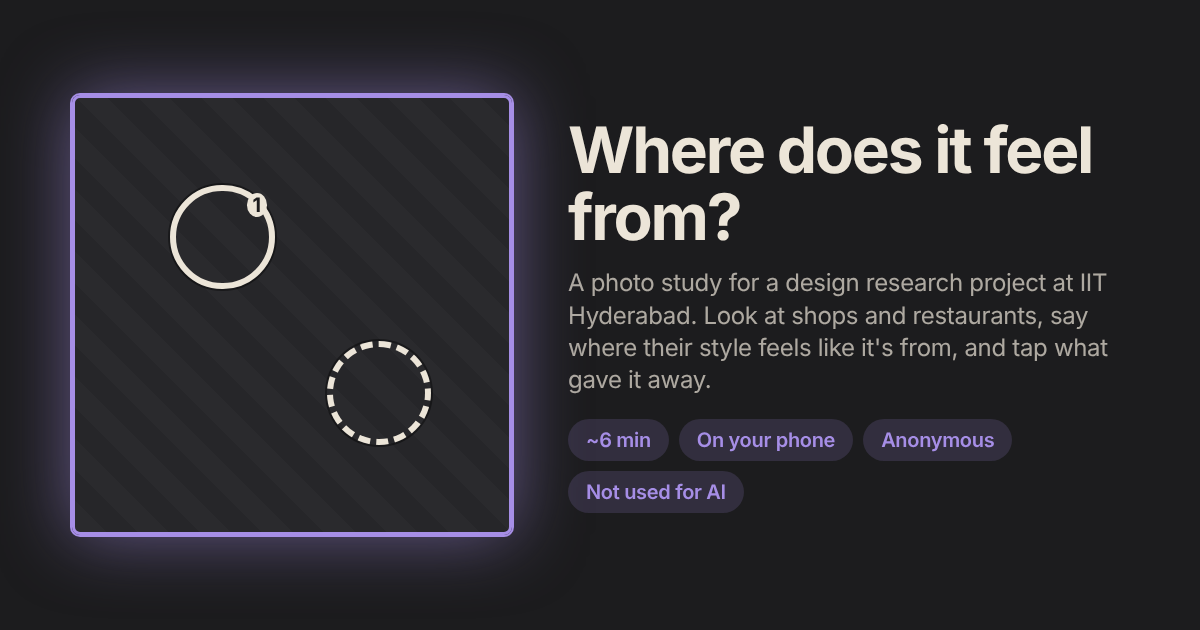
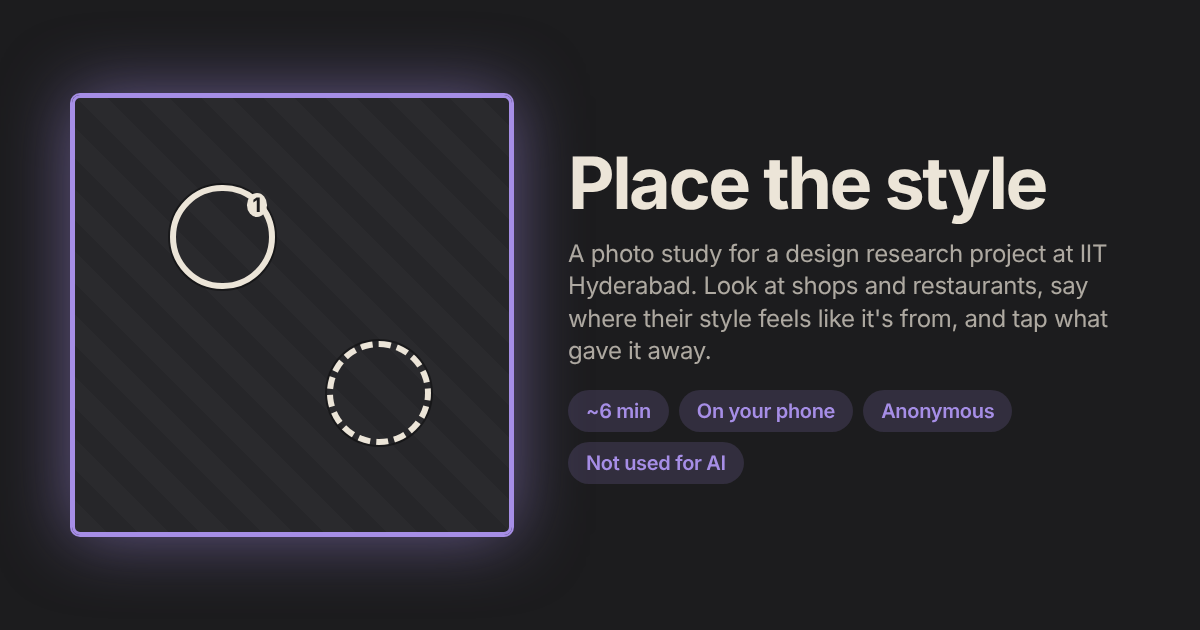
Add files via upload

Changed region(s): [[0.4625, 0.181, 0.925, 0.8143]]

diff --git a/app.js b/app.js
@@ -304,7 +304,7 @@ const contactLine=()=>SET.contact?`<p class="contact">Questions about the study?
 async function rWelcome(){S=null;closeModal();const done=await get('meta','done');
   if(done&&SET.mode==='online'){OPTIN={sent:!!done.optin};return rThanks()}
   const n=nShown(),mins=Math.max(3,Math.round(n*.3));
-  app.innerHTML=`<div class="center"><div class="box"><h1 id="ttl">Where does it feel from?</h1><p>A short study about how shops and restaurants look. You'll see about ${n} photos and say which part of the world each place's style feels like it's from (not where it actually is). It takes about ${mins} minutes.</p>
+  app.innerHTML=`<div class="center"><div class="box"><h1 id="ttl">Place the style</h1><p>A short study about how shops and restaurants look. You'll see about ${n} photos and say which part of the world each place's style feels like it's from (not where it actually is). It takes about ${mins} minutes.</p>
   <p class="small">This is part of an academic design research project${SET.inst?' '+esc(SET.inst):''}. Your answers are used only for this research. They won't be sold, shared with companies, or used to train AI.</p>
   <p class="small">It's anonymous: we don't ask for your name, and nothing you answer identifies you. You can stop at any time by closing the page; answers you've already given are kept.</p>
   <p class="small">You need to be 18 or older. That's a standard research-ethics rule for studies with adults, not a content warning: the photos are just shops and restaurants.</p>

diff --git a/index.html b/index.html
@@ -4,9 +4,9 @@
 <meta charset="utf-8">
 <meta name="viewport" content="width=device-width,initial-scale=1,viewport-fit=cover,user-scalable=no">
 <meta name="theme-color" content="#1c1c1e">
-<title>Where does it feel from?</title>
+<title>Place the style</title>
 <meta name="description" content="A short study on how shops and restaurants look. About 6 minutes, anonymous, part of an academic design research project.">
-<meta property="og:title" content="Where does it feel from?">
+<meta property="og:title" content="Place the style">
 <meta property="og:description" content="A short study on how shops and restaurants look. About 6 minutes, anonymous.">
 <meta property="og:image" content="https://1nnix.github.io/GuidettO/og.png">
 <meta property="og:image:width" content="1200"><meta property="og:image:height" content="630">
